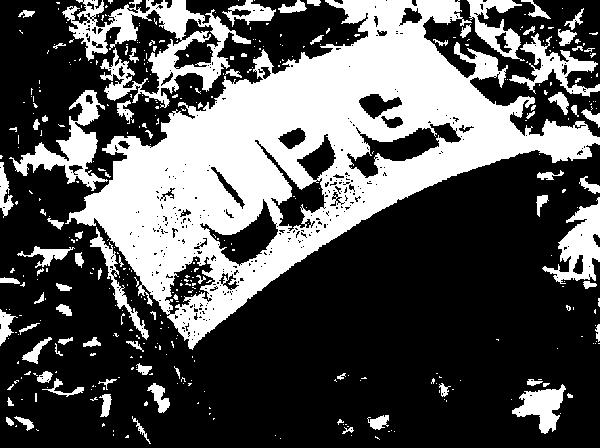
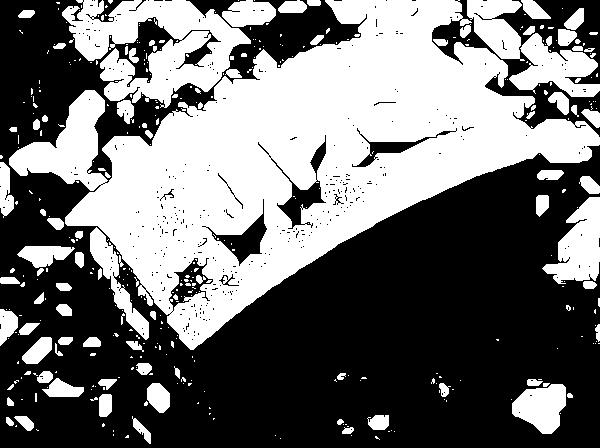
Improved morphological filters: added iterative thinning/thickening with convergence checks, refactored `hit_or_miss` structure, and integrated flexible SE definitions in Examples.py.

diff --git a/Examples.py b/Examples.py
@@ -14,10 +14,72 @@ from typing import Callable, Dict, Tuple, Any
 import numpy as np
 from tqdm import tqdm
 
-from ImageIO import load_image, save_image
 import ArithmeticalOperations as ao
 import Filters as f
 import MorphologicalFilters as mf
+from ImageIO import load_image, save_image
+
+
+def rotate_se(se: np.ndarray) -> np.ndarray:
+    """Rotate structuring element by 90 degrees."""
+    return np.rot90(se)
+
+
+# ===== HIT-OR-MISS STRUCTURING ELEMENTS =====
+
+# Thinning
+SE_THINNING_BASE = [
+    (
+        np.array([[0, 0, 0],
+                  [2, 1, 2],
+                  [1, 1, 1]], dtype=np.uint8),
+        np.array([[1, 1, 1],
+                  [2, 0, 2],
+                  [0, 0, 0]], dtype=np.uint8)
+    ),
+    (
+        np.array([[2, 0, 0],
+                  [1, 1, 0],
+                  [2, 1, 2]], dtype=np.uint8),
+        np.array([[2, 1, 1],
+                  [0, 0, 1],
+                  [2, 0, 0]], dtype=np.uint8)
+    ),
+]
+
+SE_THINNING = []
+for se_obj, se_bg in SE_THINNING_BASE:
+    for _ in range(4):
+        SE_THINNING.append((se_obj, se_bg))
+        se_obj = rotate_se(se_obj)
+        se_bg = rotate_se(se_bg)
+
+# Thickening
+SE_THICKENING_BASE = [
+    (
+        np.array([[1, 1, 2],
+                  [1, 0, 2],
+                  [1, 2, 0]], dtype=np.uint8),
+        np.array([[0, 0, 2],
+                  [0, 1, 2],
+                  [0, 2, 1]], dtype=np.uint8)
+    ),
+    (
+        np.array([[2, 1, 1],
+                  [2, 0, 1],
+                  [0, 2, 1]], dtype=np.uint8),
+        np.array([[2, 0, 0],
+                  [2, 1, 0],
+                  [1, 2, 0]], dtype=np.uint8)
+    ),
+]
+
+SE_THICKENING = []
+for se_obj, se_bg in SE_THICKENING_BASE:
+    for _ in range(4):
+        SE_THICKENING.append((se_obj, se_bg))
+        se_obj = rotate_se(se_obj)
+        se_bg = rotate_se(se_bg)
 
 
 def generate_examples(input_path: str, output_dir: str) -> None:
@@ -59,44 +121,20 @@ def generate_examples(input_path: str, output_dir: str) -> None:
         "sobel_45": (f.sobel, {"angles": ("45",)}),
 
         # Binary
-        "binary":  (mf.binary, {}),
+        "binary": (mf.binary, {}),
         # Morphological filters
-        "morphological_dilation": (mf.dilation, {"se": np.ones((3,3), dtype=np.uint8)}),
-        "morphological_erosion": (mf.erosion, {"se": np.ones((3,3), dtype=np.uint8)}),
+        "morphological_dilation": (mf.dilation, {"se": np.ones((3, 3), dtype=np.uint8)}),
+        "morphological_erosion": (mf.erosion, {"se": np.ones((3, 3), dtype=np.uint8)}),
         "morphological_opening": (mf.opening, {}),
         "morphological_closing": (mf.closing, {}),
-        # Hit-or-Miss, Thinning и Thickening:
-        # For demonstration use simple 3x3 SE
-        "morphological_hit_or_miss": (
-            mf.hit_or_miss,
-            {"se_obj": np.array([[0,0,0],
-                                [0,1,0],
-                                [0,0,0]]),
-             "se_bg": np.array([[1,1,1],
-                                [1,0,1],
-                                [1,1,1]])}
-        ),
+        # Hit-or-Miss: thinning & thickening (correct, 8 SE, iterative)
         "morphological_thinning": (
             mf.thinning,
-            {"se_list": [
-                (np.array([[0, 1, 0],
-                           [1, 1, 1],
-                           [0, 1, 0]]),
-                 np.array([[1, 0, 1],
-                           [0, 0, 0],
-                           [1, 0, 1]]))
-            ]}
+            {"se_list": SE_THINNING}
         ),
         "morphological_thickening": (
             mf.thickening,
-            {"se_list": [
-                (np.array([[0, 1, 0],
-                           [1, 1, 1],
-                           [0, 1, 0]]),
-                 np.array([[1, 0, 1],
-                           [0, 0, 0],
-                           [1, 0, 1]]))
-            ]}
+            {"se_list": SE_THICKENING}
         ),
     }
 

diff --git a/MorphologicalFilters.py b/MorphologicalFilters.py
@@ -157,36 +157,70 @@ def closing(image: np.ndarray, se: np.ndarray = None) -> np.ndarray:
     return erosion(dilation(image, se), se)
 
 
-def hit_or_miss(image: np.ndarray, se_obj: np.ndarray, se_bg: np.ndarray) -> np.ndarray:
-    """Hit-or-Miss transform."""
-    image = _ensure_grayscale_2d(image)
-    img_bin = to_binary(image)
-
+def _hit_or_miss_bin(img_bin: np.ndarray,
+                     se_obj: np.ndarray,
+                     se_bg: np.ndarray) -> np.ndarray:
+    """
+    Binary Hit-or-Miss mechanism.
+    Expects img_bin with values {0,1}.
+    Returns binary mask {0,1}.
+    """
     eroded_obj = _erosion_bin(img_bin, se_obj)
     eroded_bg = _erosion_bin(1 - img_bin, se_bg)
-    out = np.logical_and(eroded_obj == 1, eroded_bg == 1)
-    return out.astype(np.uint8) * 255
+    return np.logical_and(eroded_obj, eroded_bg).astype(np.uint8)
 
 
-def thinning(image: np.ndarray, se_list: list) -> np.ndarray:
-    """Thinning using Hit-or-Miss with multiple SEs."""
+def thinning(image: np.ndarray, se_list: list, max_iter: int = 25) -> np.ndarray:
+    """
+    Hit-or-Miss thinning.
+
+    - Iterative algorithm with convergence check
+    - Each SE is applied on the state at iteration start
+    - Stops early if no pixels are removed
+    """
     image = _ensure_grayscale_2d(image)
-    img_bin = to_binary(image)
+    out = to_binary(image)  # values {0,1}
 
-    out = img_bin.copy()
-    for se_obj, se_bg in se_list:
-        hm = hit_or_miss(out, se_obj, se_bg) // 255
-        out = np.where(hm == 1, 0, out)
+    # Iteratively applies structuring elements until convergence
+    for _ in range(max_iter):
+        prev = out.copy()
+        change_happened = False
+
+        for se_obj, se_bg in se_list:
+            hm = _hit_or_miss_bin(prev, se_obj, se_bg)
+            if hm.any():
+                out[hm == 1] = 0
+                change_happened = True
+
+        if not change_happened:
+            break
+
     return (out * 255).astype(np.uint8)
 
 
-def thickening(image: np.ndarray, se_list: list) -> np.ndarray:
-    """Thickening using Hit-or-Miss with multiple SEs."""
-    image = _ensure_grayscale_2d(image)
-    img_bin = to_binary(image)
+def thickening(image: np.ndarray, se_list: list, max_iter: int = 25) -> np.ndarray:
+    """
+    Hit-or-Miss thickening.
 
-    out = img_bin.copy()
-    for se_obj, se_bg in se_list:
-        hm = hit_or_miss(out, se_obj, se_bg) // 255
-        out = np.where(hm == 1, 1, out)
+    - Iterative algorithm with convergence check
+    - Each SE is applied on the state at iteration start
+    - Stops early if no pixels are added
+    """
+    image = _ensure_grayscale_2d(image)
+    out = to_binary(image)  # values {0,1}
+
+    # Iteratively applies structuring elements until convergence
+    for _ in range(max_iter):
+        prev = out.copy()
+        change_happened = False
+
+        for se_obj, se_bg in se_list:
+            hm = _hit_or_miss_bin(prev, se_obj, se_bg)
+            if hm.any():
+                out[hm == 1] = 1
+                change_happened = True
+
+        if not change_happened:
+            break
+
     return (out * 255).astype(np.uint8)
